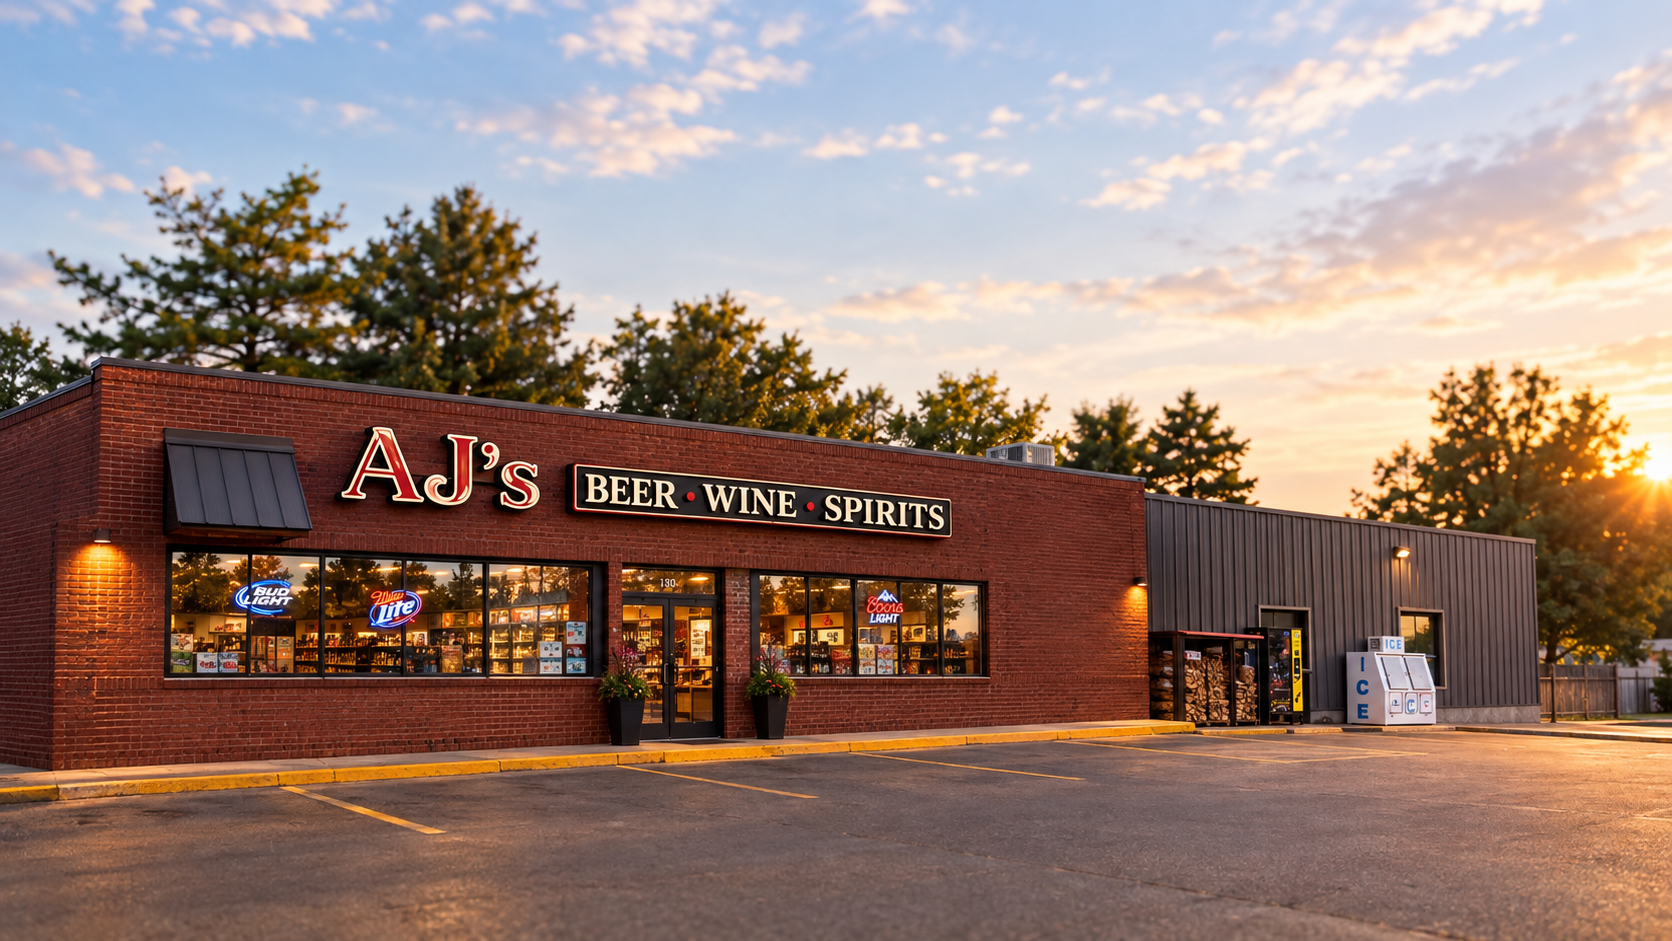
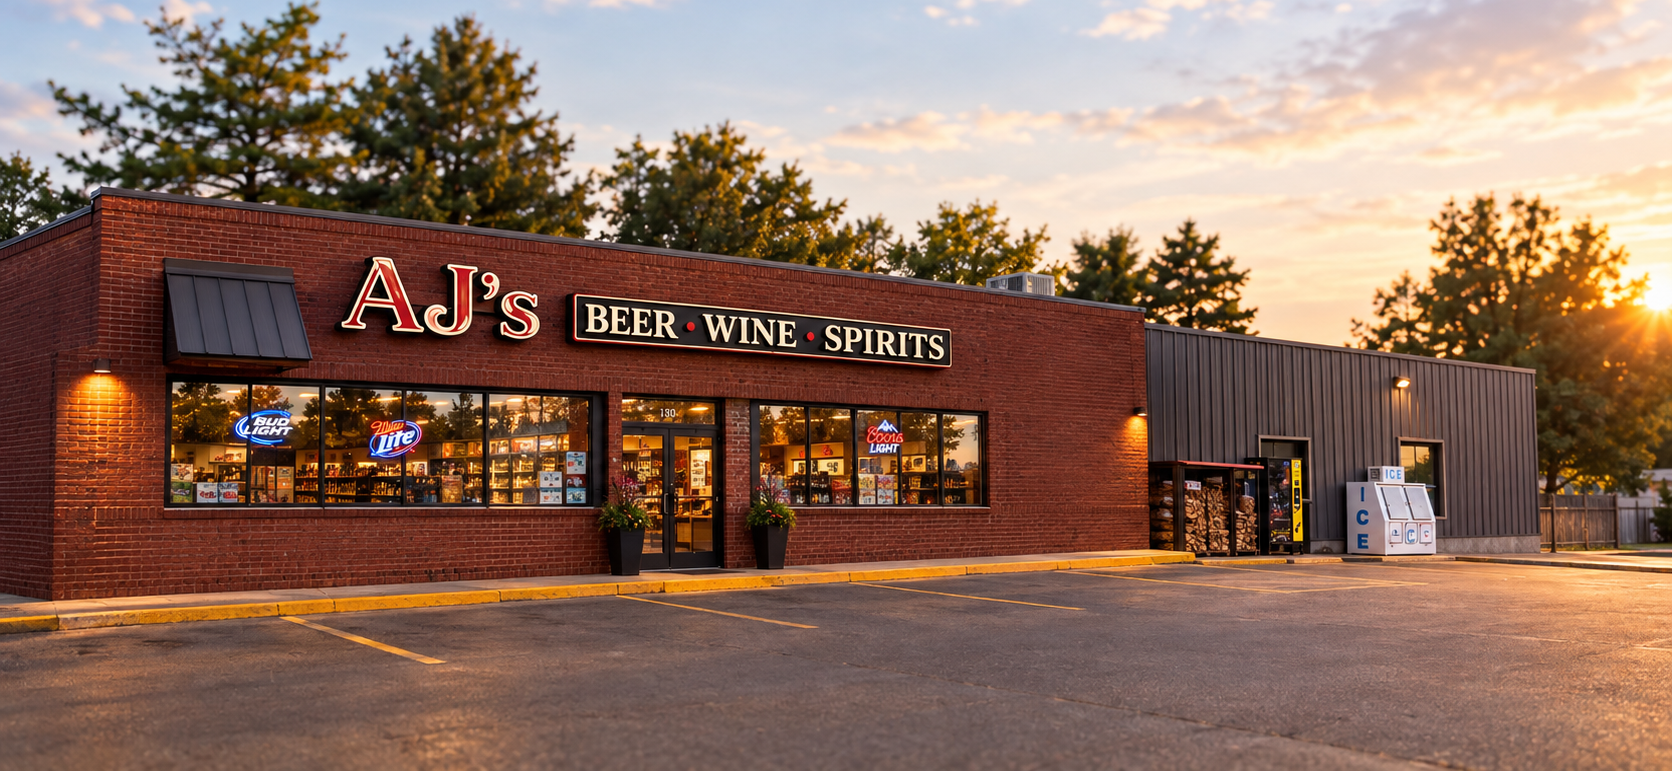
Crop hero image sky and rework layout so the sign is never obscured
Crops ~18% of sky off the top of hero-exterior.png so the storefront
and sign dominate the frame. The sign occupies a fixed band of the
photo, so the H1 and CTA are now split to the top and bottom of the
hero box (instead of stacked together at the bottom) to guarantee
neither ever overlaps it, including the previously-cropped "A" in
AJ's on narrow phones. Also drops the separate mobile hero height in
favor of a single, shorter min-height, which pulls the CTA up.

diff --git a/css/styles.css b/css/styles.css
@@ -229,28 +229,38 @@ a:focus-visible, button:focus-visible {
 }
 
 /* ---- Hero ---- */
+/* The storefront sign sits in a fixed vertical band of the photo
+   (see background-position below), so the H1 and CTA are split to
+   the top and bottom of the box — via .hero-inner's own column flex
+   — instead of stacked together, so neither ever overlaps the sign.
+   Two gradients (top-down for the headline, bottom-up for the
+   button) keep both readable while leaving the sign itself clear. */
 .hero {
   display: flex;
-  align-items: flex-end;
   justify-content: center;
-  min-height: 480px;
-  padding-bottom: 56px;
+  min-height: 440px;
   text-align: center;
-  /* Gradient sits on top of the photo so the H1 stays readable
-     against whatever is behind it at the bottom of the frame. */
-  background: linear-gradient(to top, rgba(0,0,0,0.6), rgba(0,0,0,0) 60%), url("../assets/hero-exterior.png") 35% 35% / cover no-repeat;
+  background:
+    linear-gradient(to bottom, rgba(0,0,0,0.55), rgba(0,0,0,0) 28%),
+    linear-gradient(to top, rgba(0,0,0,0.55), rgba(0,0,0,0) 38%),
+    url("../assets/hero-exterior.png") 31% 18% / cover no-repeat;
 }
 
 .hero-inner {
   max-width: 640px;
   margin: 0 auto;
+  display: flex;
+  flex-direction: column;
+  justify-content: space-between;
+  align-items: center;
+  padding: 28px 24px 40px;
 }
 
 .hero-headline {
   color: var(--white);
-  font-size: clamp(1.6rem, 4.5vw, 2.5rem);
+  font-size: clamp(1.5rem, 4vw, 2.5rem);
   text-shadow: 0 2px 12px rgba(0,0,0,0.45);
-  margin: 0 0 24px;
+  margin: 0;
 }
 
 .sr-only {
@@ -1291,10 +1301,6 @@ a:focus-visible, button:focus-visible {
   }
 
   .footer-inner { grid-template-columns: 1fr; }
-  /* Taller than desktop's proportional mobile height would suggest —
-     the added headline needs room below the storefront sign in the
-     photo (~35% down the frame) so it doesn't overlap it. */
-  .hero { min-height: 620px; padding-bottom: 40px; }
   .page-header { padding: 48px 0 40px; }
   .page-header-callout { padding: 16px 20px; text-align: center; }
 

diff --git a/CLAUDE.md b/CLAUDE.md
@@ -26,7 +26,7 @@ These two behaviors are kept in **separate, non-overlapping media queries** deli
 
 **Mobile nav toggle (hamburger) is also JS-free**, using the checkbox-hack pattern: a hidden `<input type="checkbox" id="nav-toggle">` + `<label for="nav-toggle">` with three `<span>` bars, toggled via `:checked ~` sibling selectors. This markup block must stay identical across all 7 pages' headers.
 
-**Hero image** (`index.html` only): background-image hero with a real, visible `<h1>` (`.hero-headline`) sitting on a dark gradient scrim (layered into the `.hero` background alongside the photo) so the text stays legible over any part of the image, plus a single centered CTA — both anchored to the bottom via flexbox (`align-items: flex-end`) so the block sits below the storefront sign in the photo rather than overlapping it. `background-position` is tuned (`35% 35%`) to keep the sign in frame across viewport widths — see the `.hero` rule's `min-height` values (480px desktop / 400px mobile via media query) if adjusting.
+**Hero image** (`index.html` only): `assets/hero-exterior.png` is pre-cropped (top ~18% of sky trimmed from the original photo) so the storefront and sign dominate the frame rather than empty sky. The storefront sign sits in a fixed band of that image, so the `<h1>` (`.hero-headline`) and the CTA button are deliberately split to the top and bottom of `.hero-inner` (a column flex with `justify-content: space-between`) instead of stacked together — this keeps both clear of the sign at every viewport width instead of overlapping it. Two gradients layer into the `.hero` background (top-down for the headline, bottom-up for the button), leaving the middle — where the sign is — clear of any darkening overlay. `background-position` (`31% 18%`) is tuned per-axis for two different fit regimes this wide image produces depending on viewport shape: at narrow/tall (mobile) widths the image is height-bound (its full height always shows, so only the X value matters, keeping the full sign width in frame); at wide/short (desktop) widths it's width-bound (only the Y value matters, framing the sign vertically). A single `.hero` `min-height: 440px` is now used across all breakpoints — no separate mobile override — since the split top/bottom layout no longer needs extra mobile height to avoid overlap. If the source photo or crop ever changes, re-derive both the position values and this min-height rather than assuming they still hold.
 
 **Category CTAs** (`.category-cta` / `.category-grid` / `.category-card`, `index.html` only): 4 compact, one-word tiles (Spirits, Beer, Ready-to-Drink, Wine) — just an `<h3>` inside a `--red`-bordered, rounded `<a>`, no blurb or "Shop X →" link text. `.category-grid` is `repeat(4, 1fr)` on desktop but deliberately stays at `repeat(2, 1fr)` all the way down through the `max-width: 600px` query (not `1fr`) so the tiles form a 2x2 grid on mobile instead of a tall single-column stack.
 
